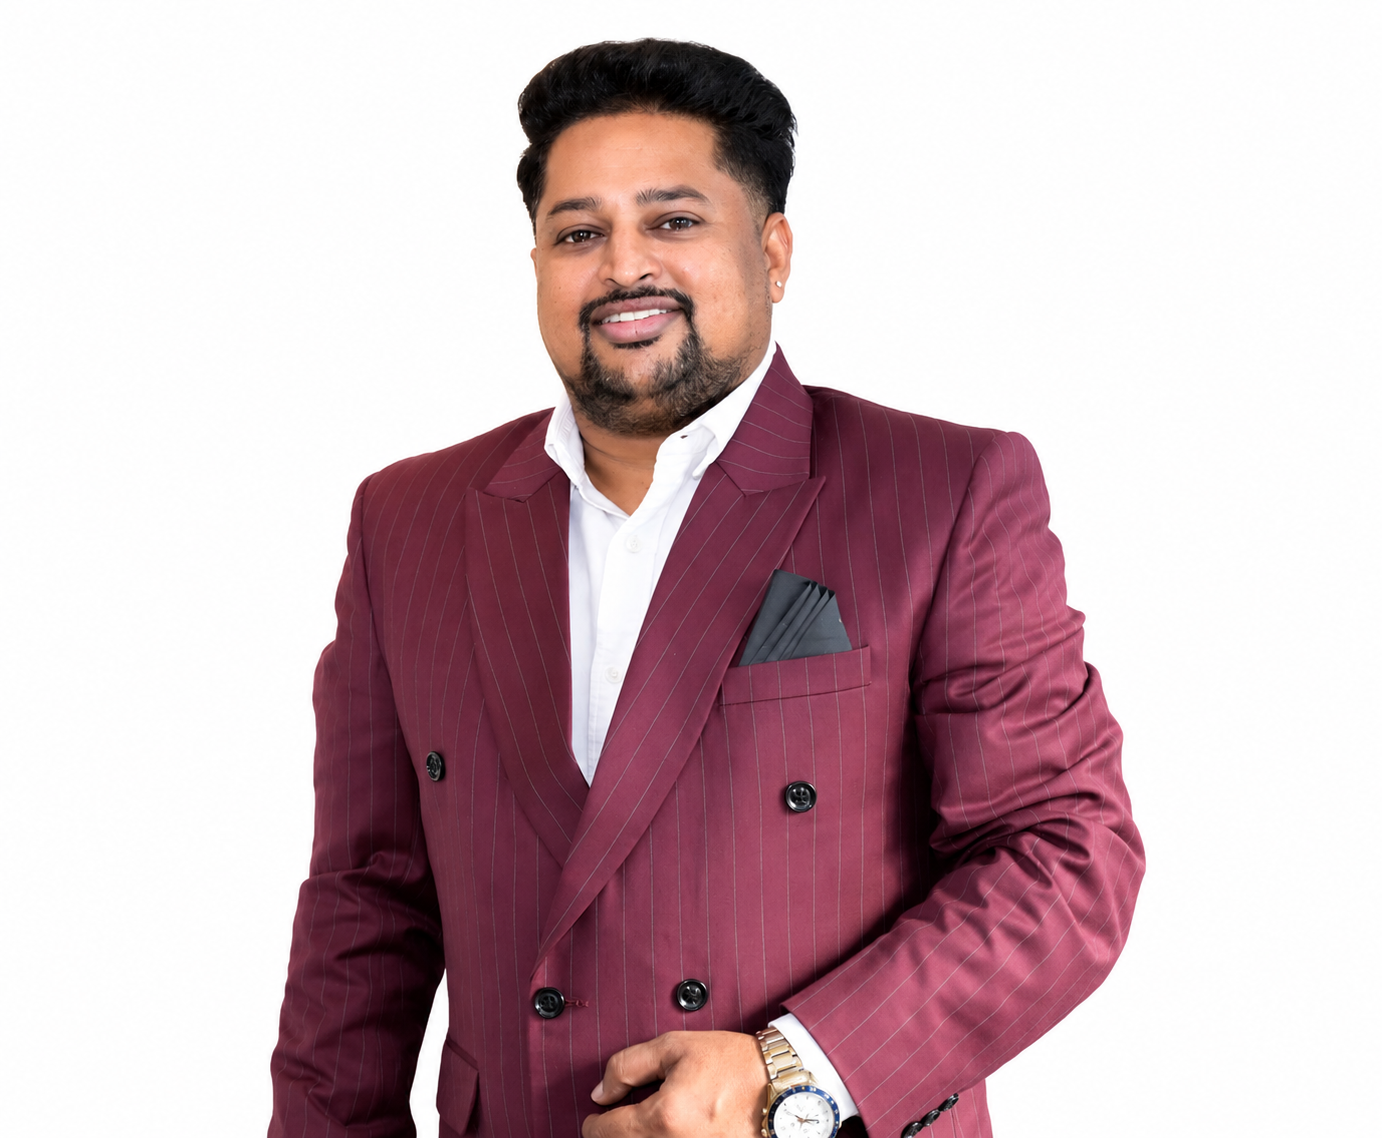
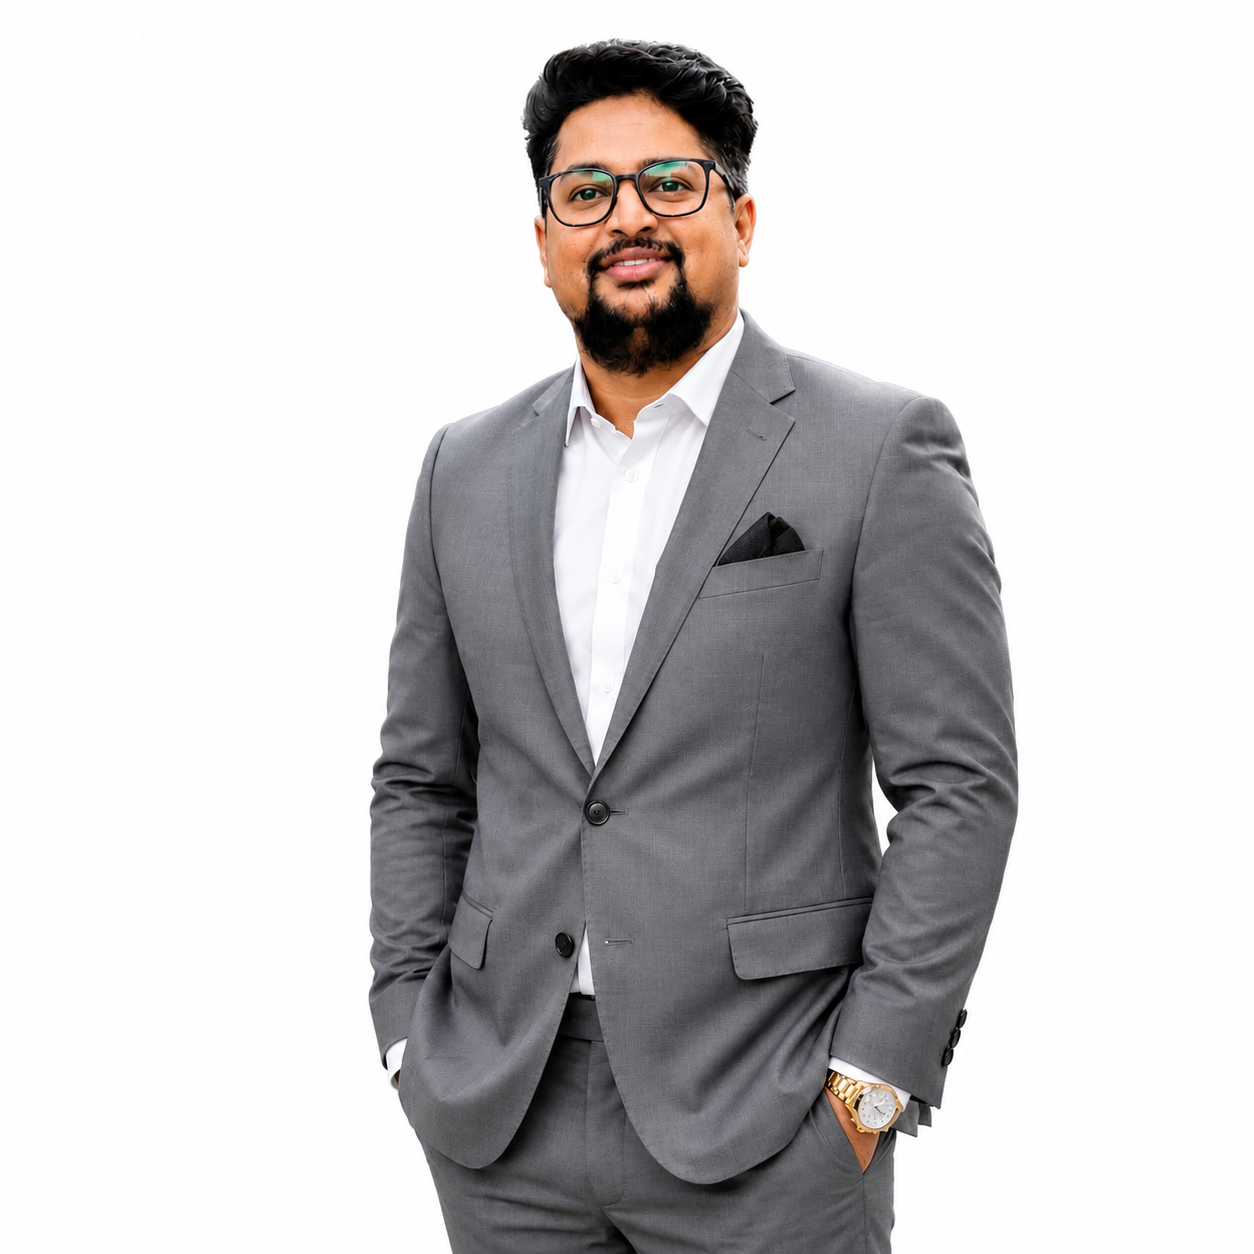
style: update high speed internet and mentorship description, and set collaborative environment to real time stock analysis

diff --git a/src/routes/index.tsx b/src/routes/index.tsx
@@ -1234,13 +1234,13 @@ function USP() {
 
 function TradingFloor() {
   const leftPillars = [
-    { i: Wifi, t: "High-Speed Internet & Mentorship", d: "We provide high-speed internet connectivity and a dedicated mentor for live market analysis to guide you in real time." },
+    { i: Wifi, t: "High-Speed Internet & Mentorship", d: "We Provide High speed internet and A Mentor For Market Analysis" },
     { i: Activity, t: "Multiple Market-Monitoring Screens", d: "Track indices, futures, options and live charts simultaneously across our wall of institutional-grade multi-screen arrays." },
     { i: Monitor, t: "Professional Trading Desks", d: "Our floor features premium ergonomic trading desks with dual-monitor setups, built for precision and speed in every session." },
   ];
 
   const rightPillars = [
-    { i: Users, t: "Collaborative Trading Environment", d: "Share ideas, strategies and live market analysis in a buzzing open-floor environment where traders learn and grow together in real time." },
+    { i: Users, t: "Collaborative Trading Environment", d: "Share ideas, strategies and real time stock analysis in a buzzing open-floor environment where traders learn and grow together in real time." },
     { i: Network, t: "Learning & Networking Space", d: "Dedicated breakout zones and seminar spaces where knowledge meets opportunity — connect with mentors and fellow traders." },
     { i: ShieldCheck, t: "Institutional-Grade Infrastructure", d: "Every workstation is equipped with professional-level data feeds, Bloomberg terminals access, and enterprise security standards." },
   ];